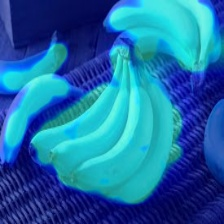
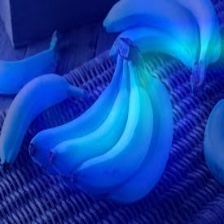
add seam carving and vectorization

diff --git a/main.py b/main.py
@@ -1,15 +1,15 @@
 # 1. Load RGB image from disk -----------------------------------------------------------------------------------------------------------
 
-from utilities import load_rgb_image
+from scripts.utilities import load_rgb_image
 
 # Load RGB image from disk
-image_path = '../data/images/banana.jpeg'
+image_path = './data/images/cat.jpg'
 raw_image = load_rgb_image(image_path)
 # raw_image_height, raw_image_width = raw_image.size
 
 # 2. Run pre-trained CNN for image detection -------------------------------------------------------------------------------------------
 
-from resnet import ResNet50
+from scripts.resnet import ResNet50
 
 # Creat ResNet50 instance
 resnet_model = ResNet50()
@@ -22,7 +22,7 @@ prediction = resnet_model.predict(input_image)
 
 import cv2
 import numpy as np
-from gradcam import GradCam, prepare_image, create_heatmap_on_image
+from scripts.gradcam import GradCam, prepare_image, create_heatmap_on_image
 
 # Choose specific class_id or leave 'None' to use class with highest score
 class_id = None
@@ -35,24 +35,43 @@ background_image = prepare_image(image_path)
 
 # Generate and save heatmap image
 heatmap_on_image, heatmap = create_heatmap_on_image(background_image, cam)
-cv2.imwrite("../data/feature_maps/heatmap_" + image_path.split('/')[-1], heatmap_on_image)
-print('Image with heatmap overlay has been saved!')
+cv2.imwrite("./data/feature_maps/heatmap_" + image_path.split('/')[-1], heatmap_on_image)
 
 # 4. Modify feature map by painting ---------------------------------------------------------------------------------------------------
 
-from painting import HeatmapPainter
+from scripts.painting import HeatmapPainter
 
+# Create HeatmapPainter instance
 painter = HeatmapPainter(cam)
-painter.start(create_heatmap_on_image, background_image, image_path)
-
-
+# Start painting and save result
+updated_cam = painter.start(create_heatmap_on_image, background_image, image_path)
 
 # 5. Use map for seam carving and remove pixel columns with low values -------------------------------------------------------------------
 
+from scripts.seam_carving import SeamCarver
+
+# Choose number of seams that should be removed
+num_seams = 10
+
+# Create SeamCarver instance
+carver = SeamCarver(background_image, updated_cam)
+# Generate carved image and visualize
+carved_image = carver.seam_carve(num_seams=num_seams)
+cv2.imshow('Carved Image', carved_image)
+cv2.waitKey(0)
+
 # 6. Vectorize remaining pixels by replacing them by triangle pairs -----------------------------------------------------------------------
 
+from scripts.vectorization import vectorization, visualize_triangles
+
+# Vectorize the carved_image
+vertices, triangles = vectorization(carved_image)
+# Visualize triangle pairs
+vector_visualisation = visualize_triangles(vertices, triangles)
 
 # 7. Move vectors back to original positions by "uncarving" the previously removed columns ------------------------------------------------
+
+
 
 # 8. Smoothly interpolate the colors in the stretched vector graphics and rasterize it back to an image -----------------------------------
 
@@ -62,6 +81,8 @@ painter.start(create_heatmap_on_image, background_image, image_path)
 # EXTRA FEATURES
 
 # 10. Visualize the steps of the carving (step 5)
+
+
 
 # 11. Add another CNN with features conditioned on a different type of user input (text, depth map, image, sketch,...)
 

diff --git a/scripts/seam_carving.py b/scripts/seam_carving.py
@@ -1,0 +1,71 @@
+# Source https://karthikkaranth.me/blog/implementing-seam-carving-with-python/
+
+import numpy as np
+import cv2
+
+class SeamCarver:
+    def __init__(self, image, cam):
+        # Initialize image and class activation map
+        self.image = image
+        self.cam = cam
+
+
+    def compute_min_seam(self):
+        # Use cam dimensions to initialize placeholders
+        rows, cols = self.cam.shape
+        min_cam = self.cam.copy()
+        backtrack = np.zeros((rows, cols), dtype=np.int32)
+        # Create array that will store minimum seam
+        seam = np.zeros(rows, dtype=np.int32)
+        
+        for i in range(1, rows):
+            for j in range(cols):
+                if j == 0:
+                    idx = np.argmin(min_cam[i - 1, j:j + 2])
+                    min_energy = min_cam[i - 1, idx + j]
+                else:
+                    idx = np.argmin(min_cam[i - 1, j - 1:j + 2])
+                    min_energy = min_cam[i - 1, idx + j - 1]
+
+                min_cam[i, j] += min_energy
+                backtrack[i, j] = idx + j - 1 if j != 0 else idx + j
+
+        seam[-1] = np.argmin(min_cam[-1])
+        for i in range(rows - 2, -1, -1):
+            seam[i] = backtrack[i + 1, seam[i + 1]]
+
+        return seam
+
+    def remove_min_seam(self, seam):
+        # Get image dimensions and create placeholder for output image (with one less column)
+        height, width, _ = self.image.shape
+        output_image = np.zeros((height, width-1, 3))
+        
+        # Loop through the rows and remove pixel that is specified by seam
+        for i in range(height):
+            remove_pixel = seam[i]
+            output_image[i, :, :] = np.delete(self.image[i, :, :], remove_pixel, axis=0)
+        
+        # Convert output image
+        output_image = output_image.astype(np.uint8)
+        
+        return output_image
+    
+    def mark_seam(self, seam):
+        # mark the seam for visualization
+        for row, col in enumerate(seam):
+            self.image[row, col, :] = [0, 0, 255]
+
+    def seam_carve(self, num_seams, mark=False):
+        # Find minimum seam and remove it (num_seams times)
+        for i in range(num_seams):
+            min_seam = self.compute_min_seam()
+            self.image = self.remove_min_seam(min_seam)
+            # Only when requested, mark the seam
+            if mark and i == num_seams-1:
+                self.mark_seam(min_seam)
+        # Convert image from BGR to RGB
+        self.image = cv2.cvtColor(self.image, cv2.COLOR_BGR2RGB)
+        return self.image
+    
+

diff --git a/scripts/resnet.py b/scripts/resnet.py
@@ -45,43 +45,3 @@ class ResNet50:
 
 # source https://www.tensorflow.org/api_docs/python/tf/keras/applications/resnet50
 # source https://keras.io/api/applications/#usage-examples-for-image-classification-models
-
-# import tensorflow as tf
-# from keras.applications import ResNet50
-# from keras.applications.resnet50 import preprocess_input, decode_predictions
-# from keras.preprocessing.image import load_img, img_to_array
-# from keras.layers import Input
-
-# class ResNet50_pretrained:
-#     def __init__(self):
-#         # Load pre-trained ResNet-50 model
-#         self.model = ResNet50(weights='imagenet')
-#         self.model.trainable = False
-#         self.inputs = Input(shape=(224, 224, 3))
-
-
-#     def prepare_image(self, raw_image):
-#         # Load and preprocess the image to fit the ResNet50 model
-#         input_image = raw_image.resize((224, 224))
-#         input_image = img_to_array(input_image)
-#         input_image = preprocess_input(input_image)
-#         input_image = tf.expand_dims(input_image, axis=0)
-#         return input_image
-
-#     def get_last_conv_layer(self):
-#         # Access the last convolutional layer in the ResNet50 model
-#         last_conv_layer = self.model.get_layer("conv5_block3_out")
-#         return last_conv_layer
-
-#     def predict(self, input_image):
-#         # Apply model to input
-#         predictions = self.model(input_image)
-
-#         # Determine class with highest score
-#         class_id = tf.argmax(predictions, axis=1)
-#         class_name = decode_predictions(predictions.numpy())[0][0][1]
-#         class_score = tf.reduce_max(predictions)
-
-#         print(f"{class_name} ({class_id.numpy()[0]}): {100 * class_score:.1f}%")
-
-#         return class_name

diff --git a/scripts/vectorization.py b/scripts/vectorization.py
@@ -1,0 +1,44 @@
+# source: assignment 3
+
+import numpy as np
+
+def vectorization(image):
+    # Image dimensions
+    height, width, _ = image.shape
+
+    # Build vertex buffer
+    num_vertices = width*height
+    vertices = np.zeros((num_vertices, 2), dtype=np.float32)
+    
+    # Assign the vertex coordinates to each pixelcenter
+    for y in range(height):
+        for x in range(width):
+            vertices[y * width + x] = [x+0.5, y+0.5]
+    
+    # Build index buffer
+    num_pixels = (width-1) * (height-1)
+    num_triangles = num_pixels * 2
+    triangles = np.zeros((num_triangles, 3), dtype=np.int32)
+    
+    # Assign triangles 
+    for y in range(height-1):
+        for x in range(width-1):
+            index = y * (width-1) + x
+            triangles[index * 2] = [y * width + x, y * width + x + 1, (y + 1) * width + x + 1]
+            triangles[index * 2 + 1] = [y * width + x, (y + 1) * width + x + 1, (y + 1) * width + x]
+    
+    return vertices, triangles
+
+import matplotlib.pyplot as plt
+import matplotlib.tri as mtri
+
+def visualize_triangles(vertices, triangles):
+    #Retrieve the coordinates of the vertices to create Triangulation object
+    x = vertices[:, 0]
+    y = vertices[:, 1]
+    tri = mtri.Triangulation(x, y, triangles=triangles)
+    
+    #Visualize triangulation
+    plt.figure()
+    plt.triplot(tri)
+    plt.show()

diff --git a/scripts/painting.py b/scripts/painting.py
@@ -20,7 +20,7 @@ class HeatmapPainter:
         max_value = np.max(self.cam)
         # Choose radius for brush size and sigma for gaussian blur
         radius = 6
-        sigma = 10.0
+        sigma = 20.0
 
         # Start painting when left mouse button is pressed
         if event == cv2.EVENT_LBUTTONDOWN:
@@ -40,11 +40,12 @@ class HeatmapPainter:
                 self.cam = np.minimum(self.cam + mask, max_value)
 
     def start(self, create_heatmap_on_image, background_image, image_path):
+        # Start a loop to keep displaying and updating the image
         while True:
             updated_heatmap_on_image, updated_heatmap = create_heatmap_on_image(background_image, self.cam)
             cv2.imshow('heatmap on image', updated_heatmap_on_image)
-            if cv2.waitKey(1) & 0xFF == ord('q'):
-                cv2.imwrite("../data/feature_maps_updated/heatmap_" + image_path.split('/')[-1], updated_heatmap_on_image)
-                break
-        cv2.destroyAllWindows()
-
+            # If ESC is pressed, the display closes
+            if cv2.waitKey(1) & 0xFF == 27:
+                # Image and cam of final updated feature map are saved
+                cv2.imwrite("./data/feature_maps_updated/heatmap_" + image_path.split('/')[-1], updated_heatmap_on_image)
+                return self.cam
